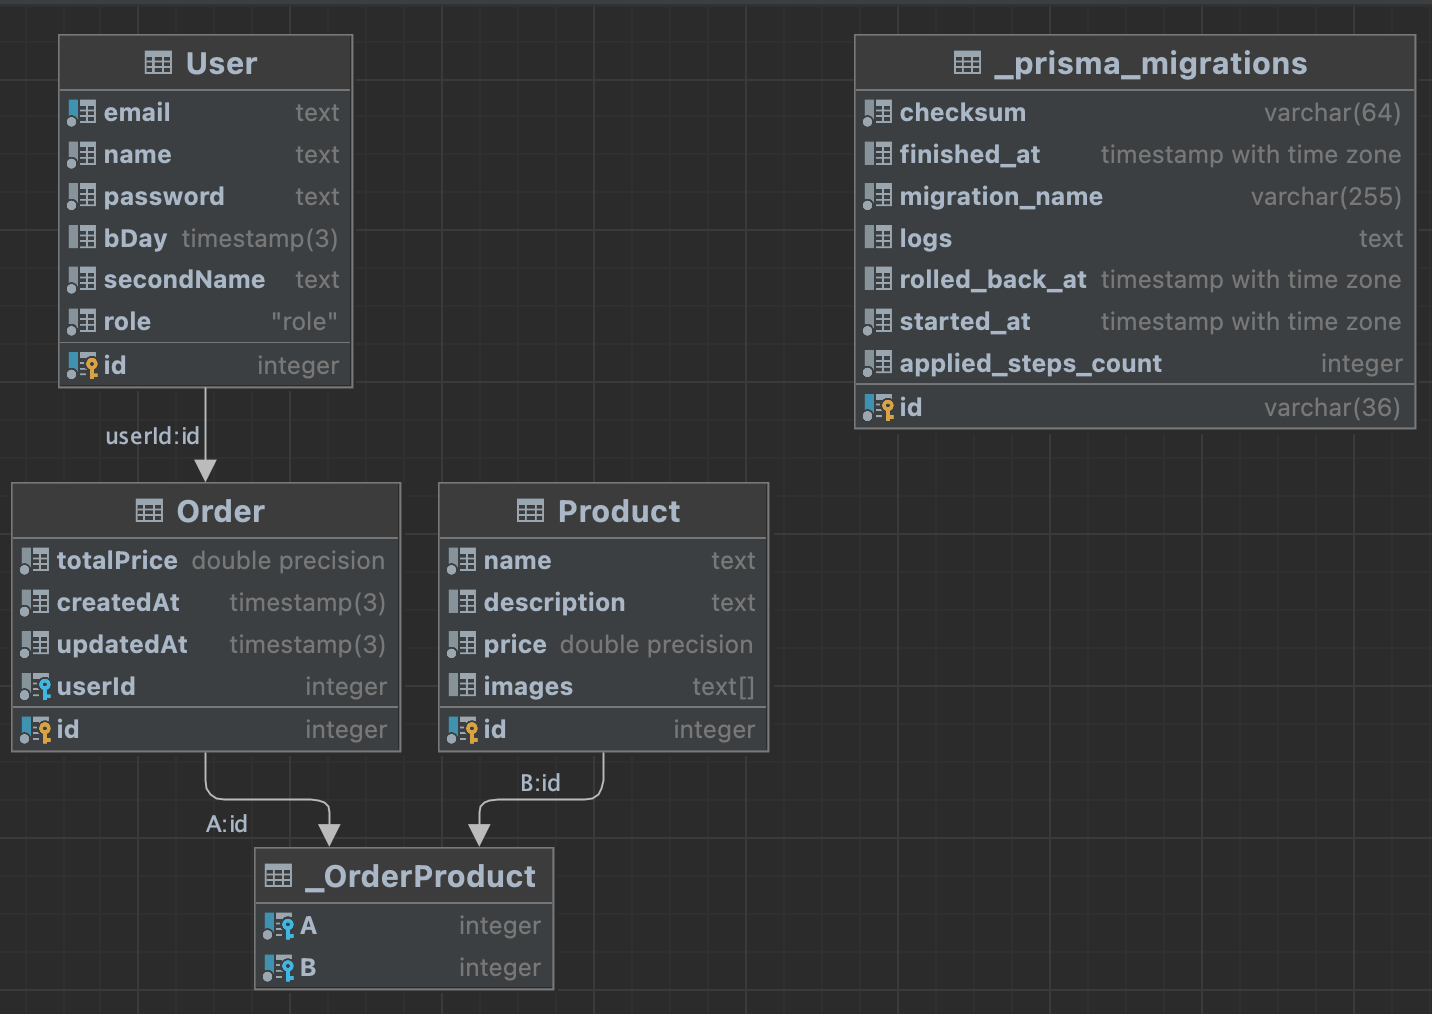
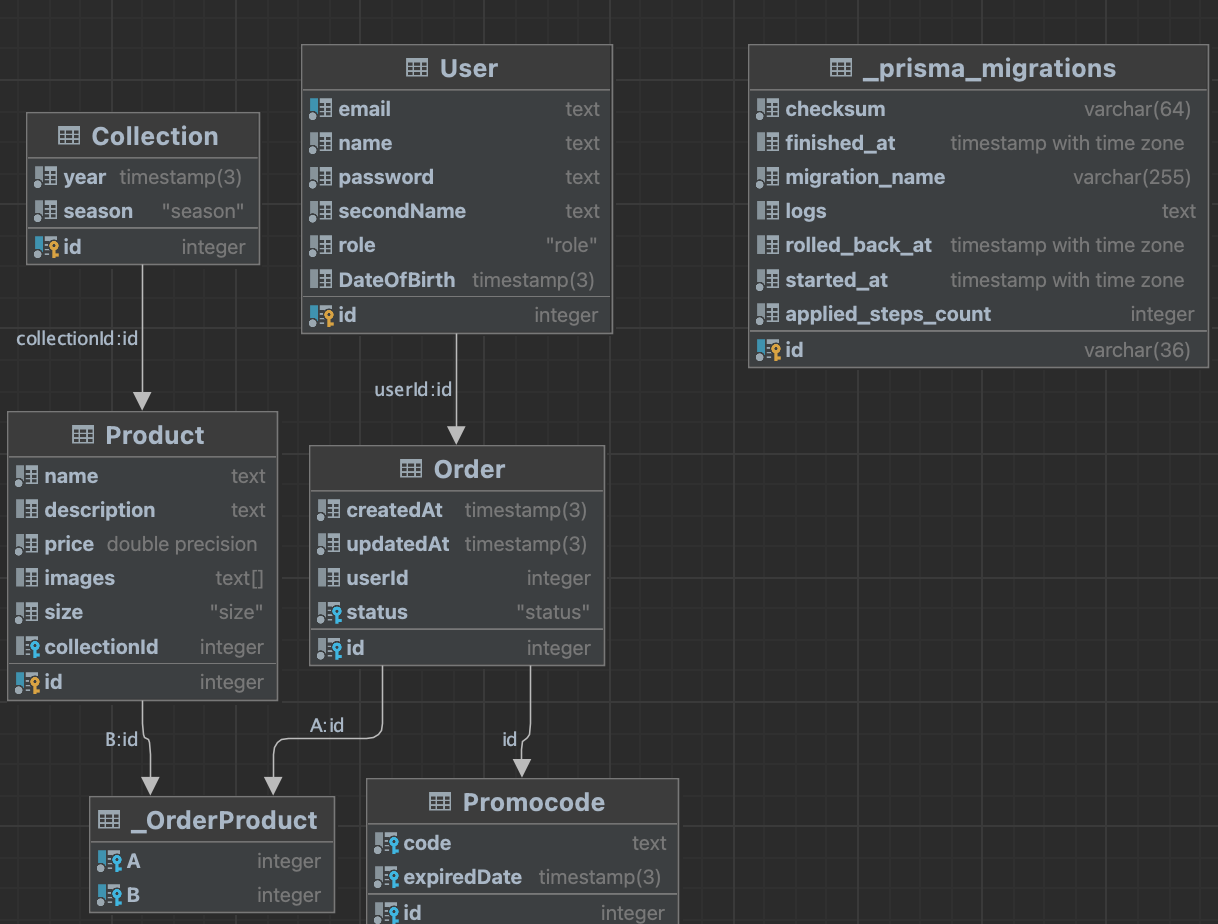
feat refactor readme.md

diff --git a/README.md b/README.md
@@ -1,7 +1,7 @@
 
 ## Description
 
-#### Есть User, он может быть 2 типов: админ и обычный. У него есть Orders, в Orders есть Products
+#### Есть User, он может быть 2 типов: админ и обычный. У него есть Orders, в Orders есть Products и есть Promocode. В Products есть Collection 
 
 ![example](https://github.com/is-web-y24/created-by-pavel/blob/main/public/img/diagram.png)
 
